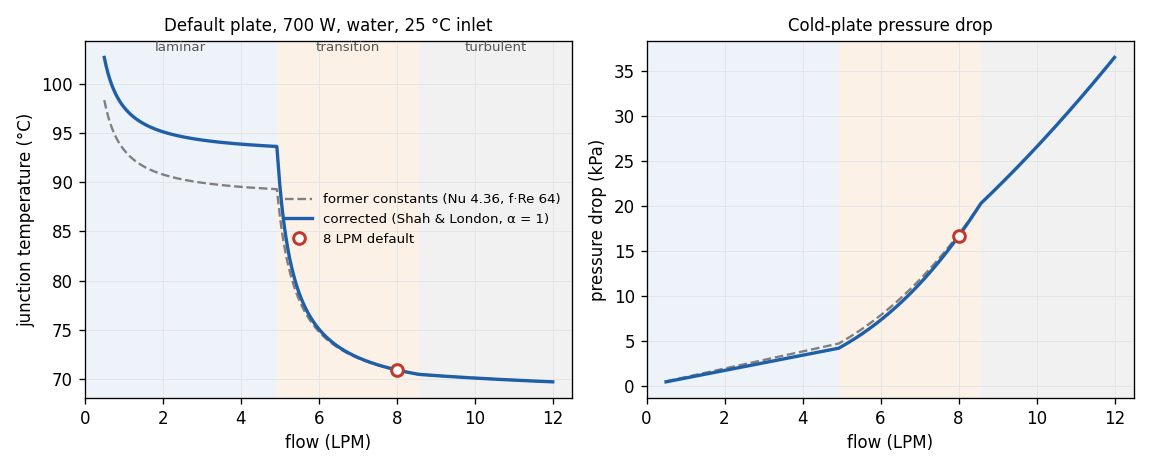
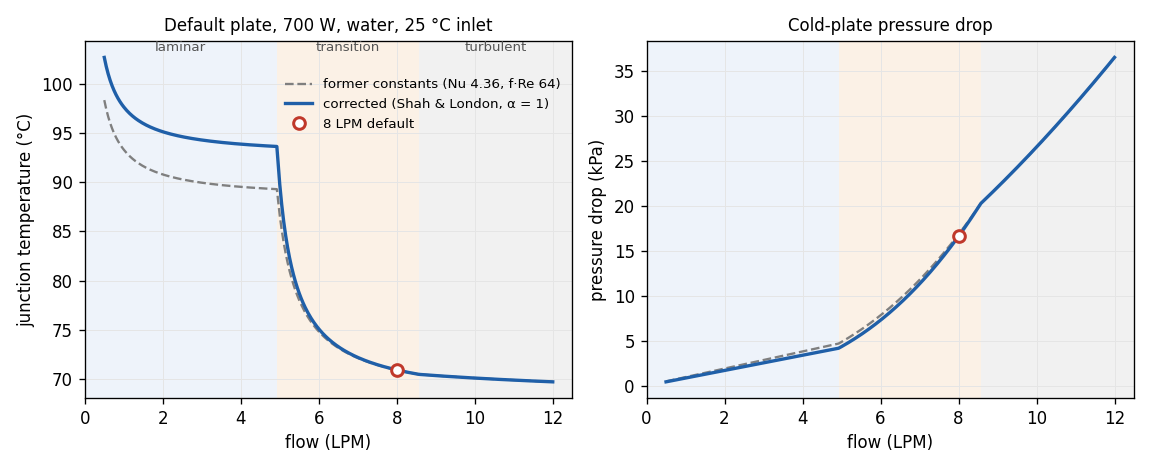
examples: move the Tj figure legend off the curve

Changed region(s): [[0.25, 0.1496, 0.5, 0.2991], [0.25, 0.4188, 0.5, 0.5385]]

diff --git a/examples/make_figures.py b/examples/make_figures.py
@@ -139,7 +139,7 @@ def default_plate_tj_vs_flow(out_dir: Path) -> Path:
     top = ax_t.get_ylim()[1]
     for x, text in ((q_lam / 2, "laminar"), ((q_lam + q_turb) / 2, "transition"), ((q_turb + 12.5) / 2, "turbulent")):
         ax_t.text(x, top, text, ha="center", va="top", fontsize=8, color="#555555")
-    ax_t.legend(fontsize=8, frameon=False, loc="center right")
+    ax_t.legend(fontsize=8, frameon=False, loc="upper right", bbox_to_anchor=(1.0, 0.93))
     ax_t.set_title("Default plate, 700 W, water, 25 °C inlet", fontsize=10)
     ax_p.set_title("Cold-plate pressure drop", fontsize=10)
     fig.tight_layout()
